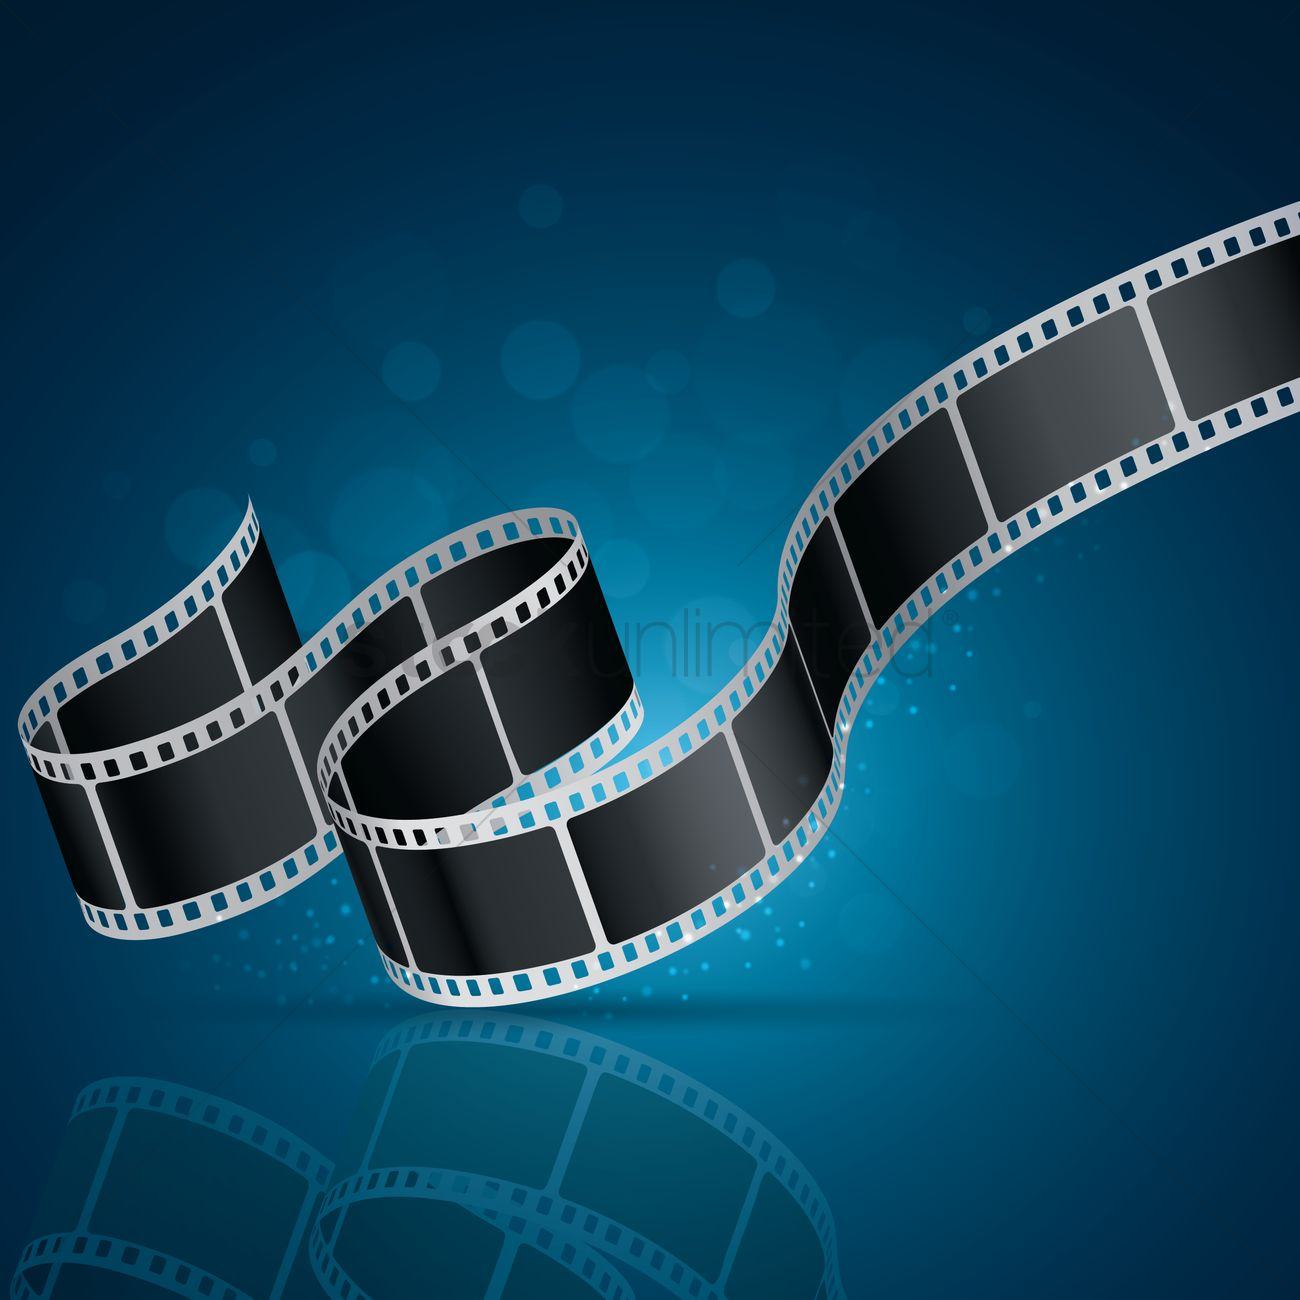
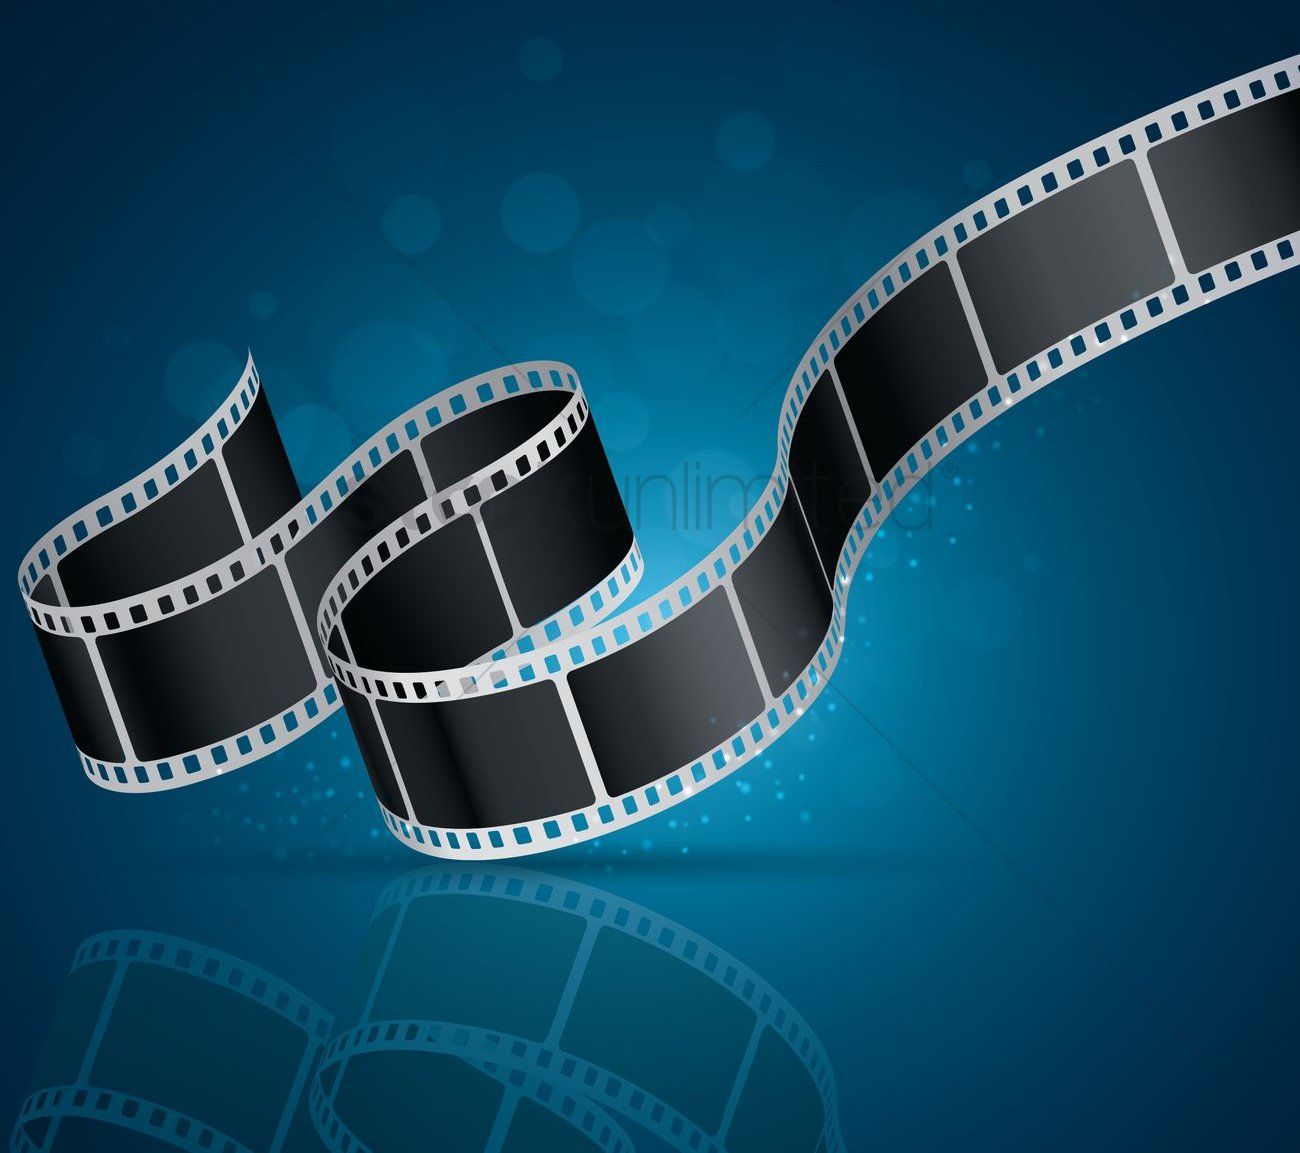
View style: opacity, buttons + fixed navbar

diff --git a/app/assets/stylesheets/application.scss b/app/assets/stylesheets/application.scss
@@ -19,8 +19,8 @@
 body {
   background-image: url("filmstrip-background");
   background-color: #40698f;
-  background-repeat: no-repeat;
-  background-size: cover;
+  background-attachment: fixed;
+  background-size: auto;
 }
 
 .vertical-center {
@@ -33,6 +33,7 @@ body {
 
 .card {
   /* Add shadows to create the "card" effect */
+  margin: 0 auto;
   box-shadow: 0 4px 8px 0 rgba(0,0,0,0.2);
   transition: 0.3s;
   border-radius: 5px; /* 5px rounded corners */
@@ -102,3 +103,10 @@ img {
   border-color: transparent;
   transform: rotateY(180deg);
 } 
+
+.center {
+  display: block;
+  margin-left: auto;
+  margin-right: auto;
+}
+
